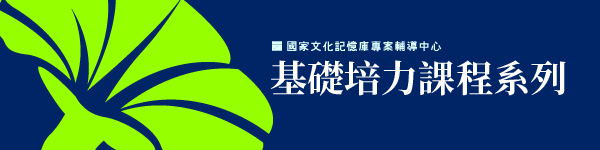
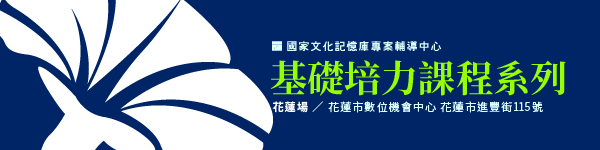
FIX PICHEADER
FIX HEADER

diff --git a/index.html b/index.html
@@ -633,8 +633,8 @@
                                             <td valign="top" class="bodyContent" mc:edit="body_content">
                                                 
                                                 
-                                                <h1>基礎培力課程</h1>
-                                                <h3>Basic Empowerment Course</h3>
+                                                <h1>基礎培力課程-花蓮場</h1>
+                                                <h3>花蓮市數位機會中心 花蓮市進豐街115 號</h3>
                                                 
                                                 我們試想您在執行計畫中面臨的關鍵問題，設計一系列課程並邀請各領域專家授課，培力您在計畫中必備的重點觀念與知識。本課程包含三大主題：系統功能操作、詮釋資料與資料蒐集選題、授權概念與方法，解決您於執行中面臨的疑惑，幫助您順利且有效率的完成計畫！
                                             </td>
@@ -646,11 +646,10 @@
                                             <td valign="top" class="bodyContent" mc:edit="body_content">
                                                 
                                                 <img src="http://mc.moc.plus/img/c1.png" style="max-width:560px;" id="bodyImage" mc:label="body_image" mc:edit="body_image" mc:allowtext />
-                                                <h2>善用你的資料導入工具</h2>
-                                                <h3>資訊系統功能與操作/4HR</h3>
-<h4>3/27(三) 14:00-17:00</h4>
+                                                <h2>善用你的資料導入工具 資訊系統功能與操作</h2>
+<h3>3/27(三) 14:00-17:00</h3>
                                                 講師藉由帶領學員上機操作，一步步練習將資料導入系統，幫助學員快速了解數位文化內容管理系統的功能、熟悉系統的操作方法，並解說關於資料的檢核方式。
-                                                <br>
+                                                <br><br/>
                                                 <h4>講師簡介／林建宏</h4>鈕酷樂股份有限公司<br>專案經理
                                             </td>
                                         </tr>
@@ -672,8 +671,8 @@
                                                     </tr>
                                                     <tr>
                                                     	<td valign="top" class="leftColumnContent" mc:edit="left_column_content">
-                                                            <h2>打造資料內容力</h2><h3>詮釋資料概觀/4HR</h3>
-                                                            <h4>4/10(三) 9:30-18:30</h4>
+                                                            <h2>打造資料內容力<br/> 詮釋資料概觀<br /> 資料蒐集選題</h2>
+                                                            
                                                             掌握建立詮釋資料的要點，就從認識詮釋資料的基本概念開始，接續釐清各詮釋欄位的規範定義，並提點撰寫描述資料的原則心法。課程中除了實例講解，也將共同討論各位學員於課前試寫之詮釋資料，從中激盪出最具建設性的撰寫詮釋資料建議。
                                                         </td>
                                                     </tr>
@@ -688,10 +687,11 @@
                                                     </tr>
                                                     <tr>
                                                     	<td valign="top" class="rightColumnContent" mc:edit="right_column_content">
-                                                            <h2><br></h2><h3>資料蒐集選題/4HR</h3>
-                                                            <h4>4/10(三) 9:30-18:30</h4>
-                                                           講師將依學員帶來的盤點資料，協助學員檢視手中資料內容，找出扣合訂定的主題方向，為提升資料內容力打好根基！在一來一往的共同討論中，逐步型塑資料架構體系，協助打造完整性與豐富性兼備的資料， 
+                                                           <br/><h3>4/10(三) 9:30-18:30</h3>
+                                                            <br/>
                                                             
+                                                           講師將依學員帶來的盤點資料，協助學員檢視手中資料內容，找出扣合訂定的主題方向，為提升資料內容力打好根基！在一來一往的共同討論中，逐步型塑資料架構體系，協助打造完整性與豐富性兼備的資料， 
+                                                            <br/><br/>
                                                             <h4>講師簡介／陳淑君
                                                             </h4>中央研究院助研究員，專長領域為數位圖書館、後設資料(即詮釋資料)、知識組織系統。
 
@@ -718,12 +718,12 @@
                                               
                                             <td valign="top" class="bodyContent" mc:edit="body_content">
                                                <img src="http://mc.moc.plus/img/c2.png" style="max-width:560px;" id="bodyImage" mc:label="body_image" mc:edit="body_image" mc:allowtext />
-                                               <h2>從概念到實務</h2><h3>掌握必知授權要點/4HR</h3>
-                                                <h4>4/26(五) 14:00-18:00</h4>
+                                                <h2>從概念到實務 掌握必知授權要點 </h2>
+                                                <h3>4/26(五) 14:00-18:00</h3>
 首先建立授權、創用CC的基本概念，與明白計畫中的授權相關規範規定。至於學員關心的眾多授權議題：例如：將來可能面臨何種授權狀況？授權程序如何進行、怎樣簽定授權書？…等等問題，將在課程中皆有完整的教學與討論。
-
+<br/><br/>
 <h4>講師簡介／章忠信</h4>
-東吳大學法律學院助理教授兼科技暨智慧財產權法研究中心主任<br>「著作權筆記」公益網站主持人。
+東吳大學法律學院助理教授兼科技暨智慧財產權法研究中心主任<br>「著作權筆記」公益網站主持人
 
                                             </td>
                                         </tr>
